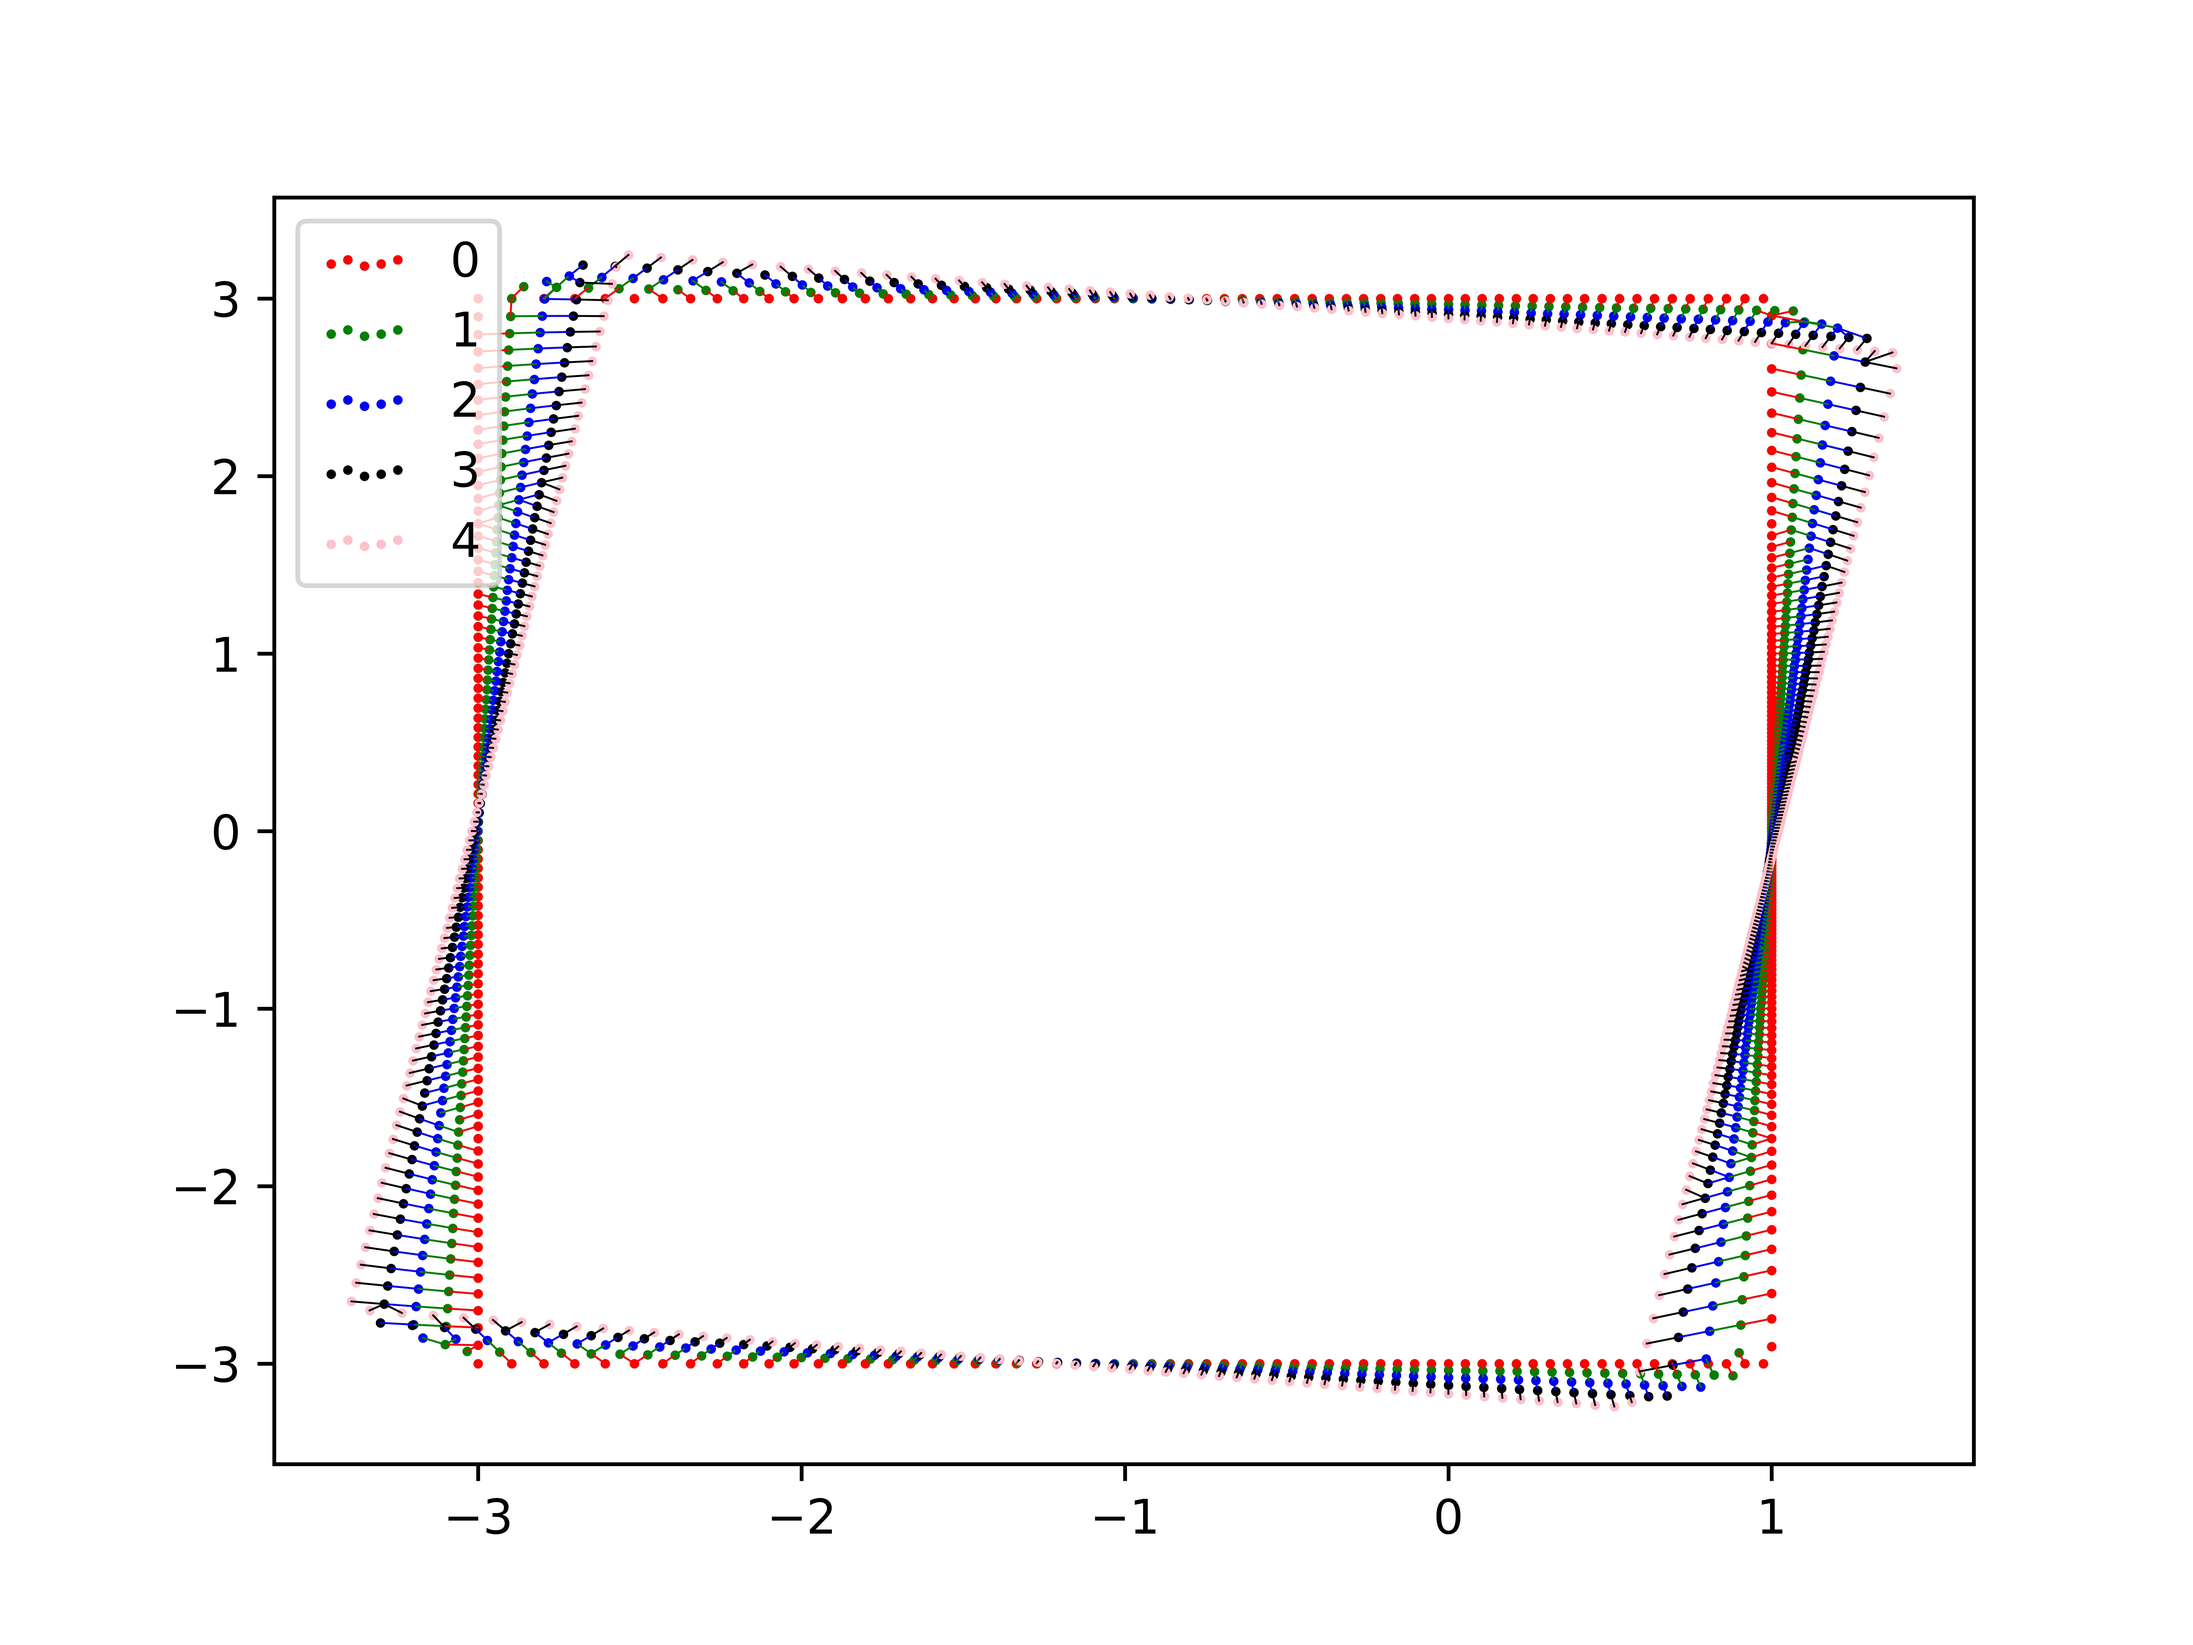
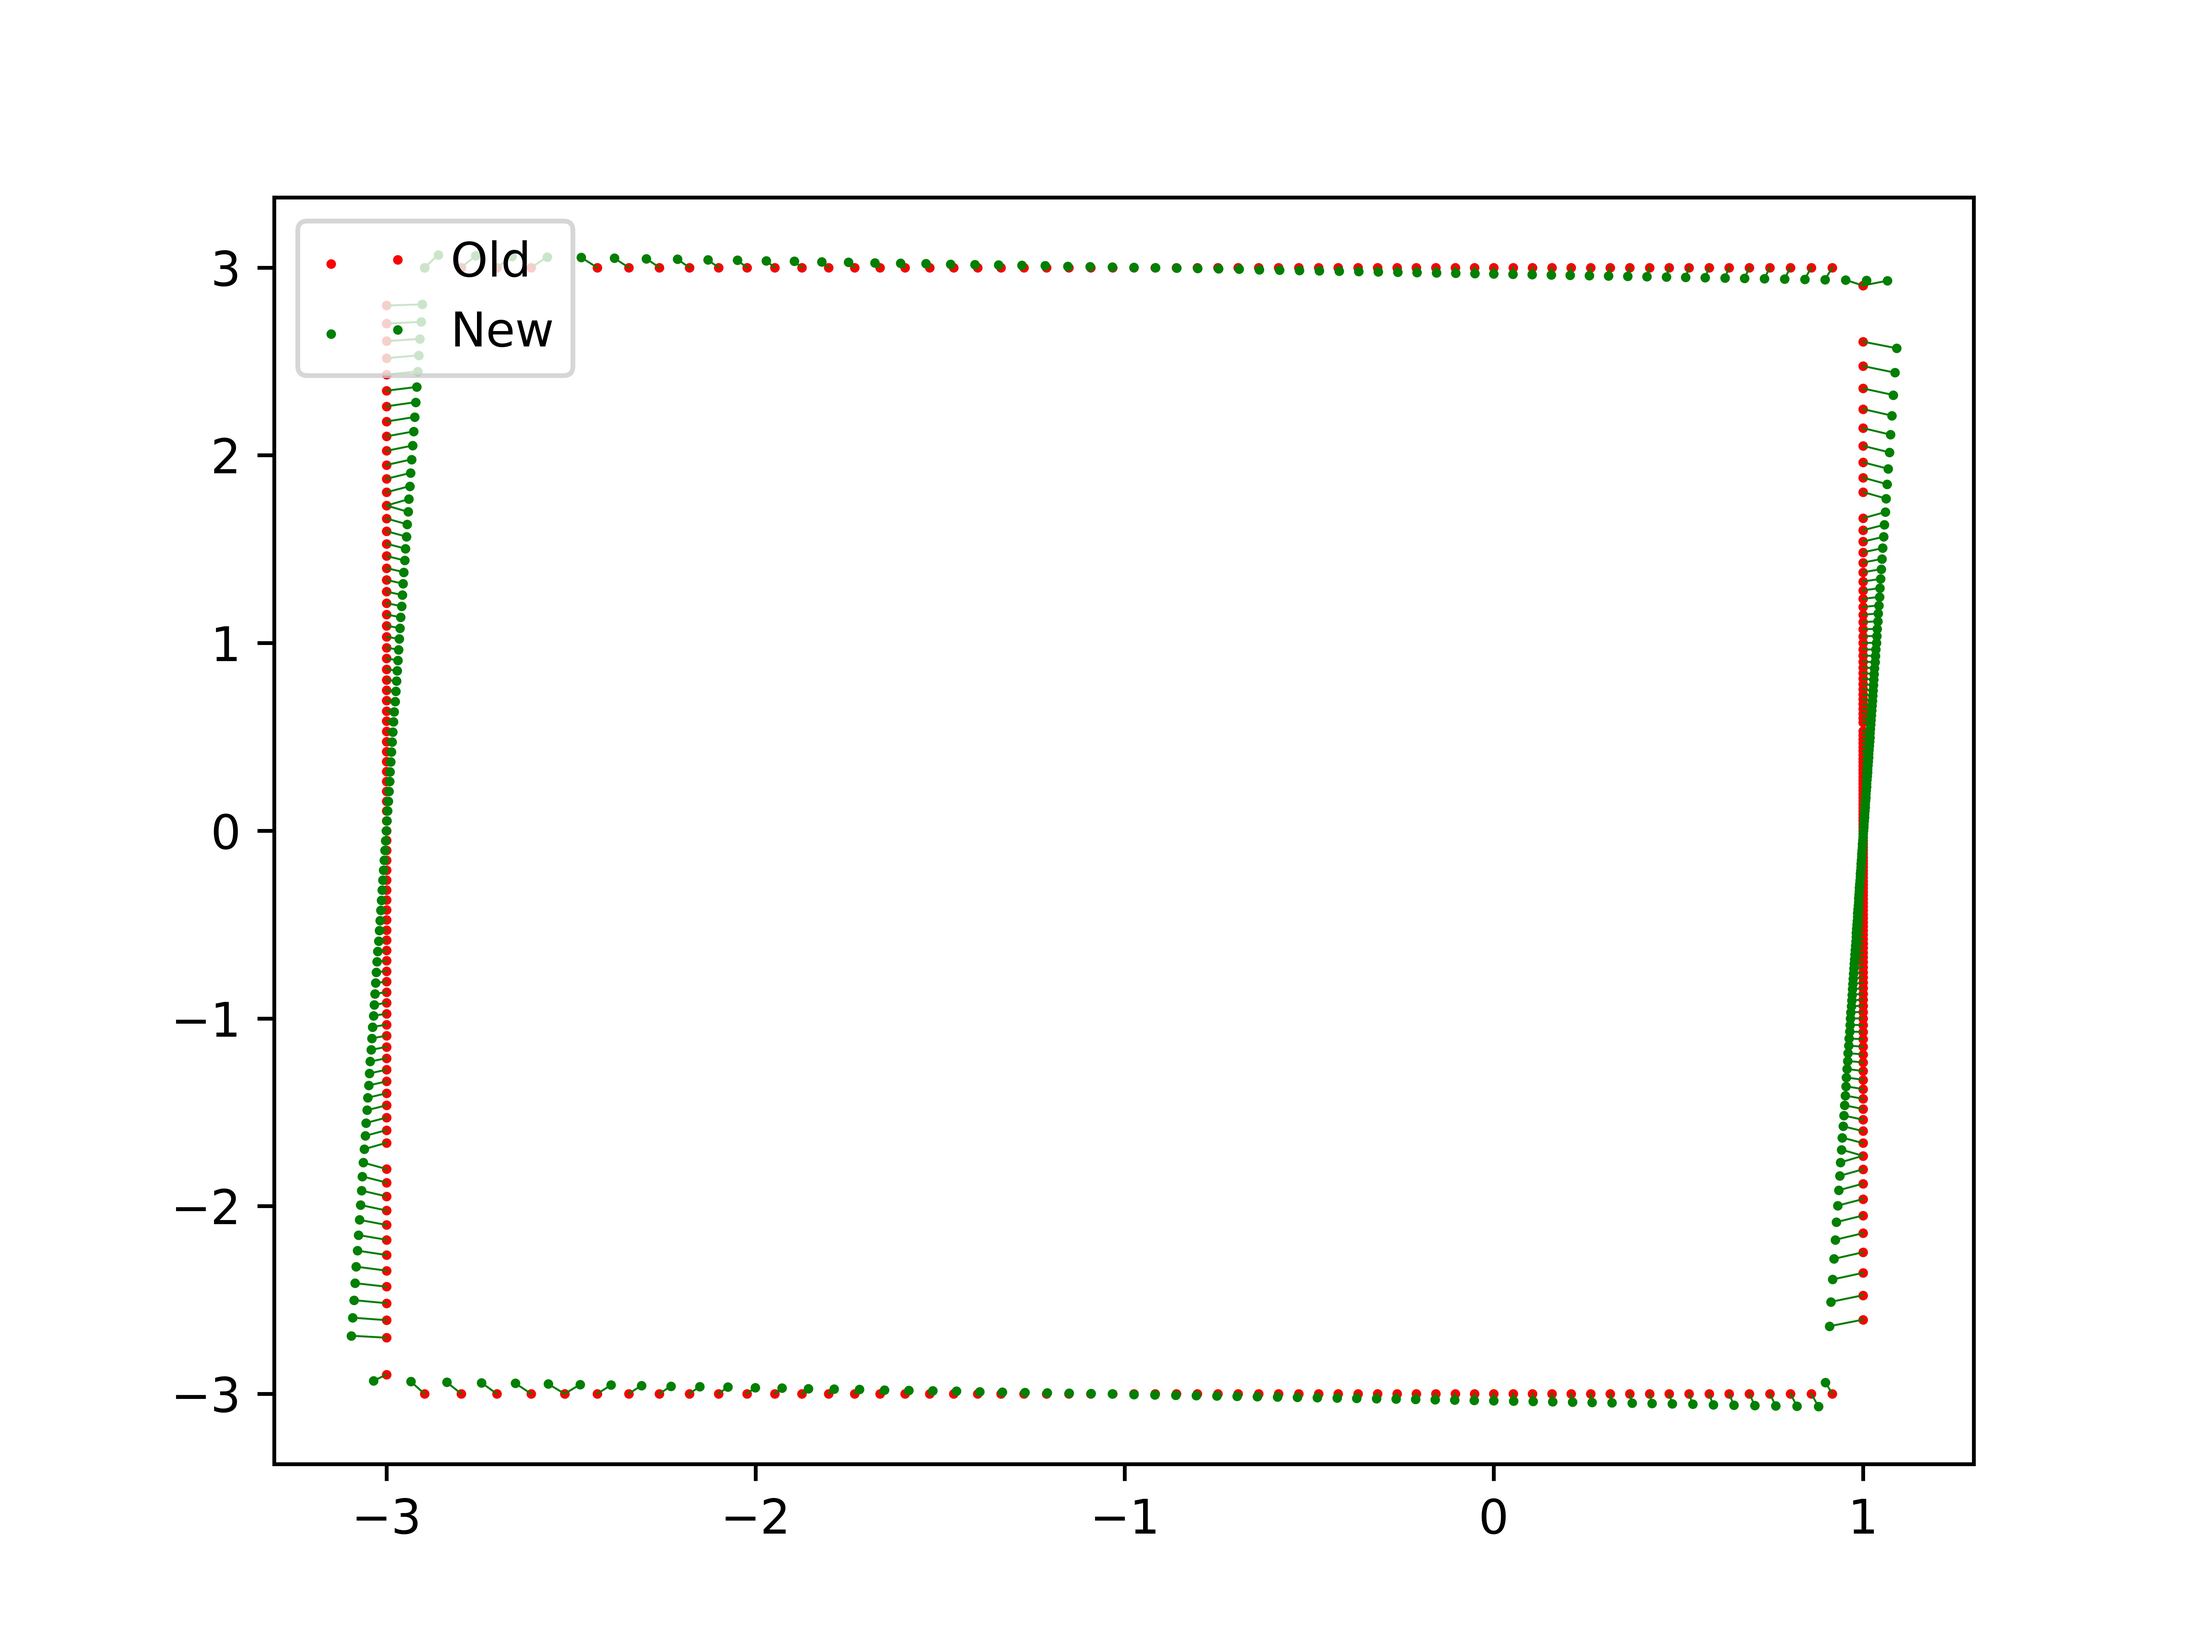
structure defined

diff --git a/HW1/main.py b/HW1/main.py
@@ -1,43 +1,84 @@
 import numpy as np
 from matplotlib import pyplot as plt
 
+
 # Read Data
-depth_data = open("hw1_data/data.txt")
-depth_data = depth_data.readlines()
-depth_data = [data.split('\t')[:-1] for data in depth_data]
-depth_data = np.array(depth_data, dtype=np.float64)
+def get_depth(path: str = "hw1_data/data.txt"):
+    depth_data = open("hw1_data/data.txt")
+    depth_data = depth_data.readlines()
+    depth_data = [data.split('\t')[:-1] for data in depth_data]
+    depth_data = np.array(depth_data, dtype=np.float64)
+    return depth_data
+
 
 # Turn depth data into coordinate
-coordinate_dataX = np.array([[np.cos(j * np.pi / 180) * depth_data[i][j] for j in range(360)] for i in range(360)])
-coordinate_dataY = np.array([[np.sin(j * np.pi / 180) * depth_data[i][j] for j in range(360)] for i in range(360)])
+def depth2coor(depth_data: np.array):
+    coordinate_data = np.array(
+        [[(np.cos(j * np.pi / 180) * depth_data[i][j], np.sin(j * np.pi / 180) * depth_data[i][j]) for j in range(360)]
+         for
+         i in range(360)], dtype=np.float64)
+    return coordinate_data
+
+
+def de_coor2xy(coor: np.array):
+    coordinate_data_x = np.array([[coor[i][j][0] for j in range(360)] for i in range(360)], dtype=np.float64)
+    coordinate_data_y = np.array([[coor[i][j][1] for j in range(360)] for i in range(360)], dtype=np.float64)
+    return coordinate_data_x, coordinate_data_y
+
 
 # Calculate nearest point between 2 frames
-nearst_point = [[] for i in range(360)]
-for i in range(359):
-    for j in range(360):
-        dis = np.sqrt(np.square(coordinate_dataX[i+1][j]-coordinate_dataX[i])+np.square(coordinate_dataY[i+1][j]-coordinate_dataY[i]))
-        nearst_point[i].append(np.argmin(dis))
+def cal_nearest(index: int, coor: np.array, coor_x: np.array = None, coor_y: np.array = None):
+    nearest_point = list()
+    if coor_x is None and coor_y is None:
+        coor_x, coor_y = de_coor2xy(coor)
 
-# Todo: Here just try 1st and 2rd frame
-# Calculate Rotation and Translation Matrix
-coordinate_data = np.array([[[coordinate_dataX[i][j], coordinate_dataY[i][j], 1] for j in range(360)] for i in range(360)])
-p_avg = np.array([np.average(coordinate_dataX[0]), np.average(coordinate_dataY[0]), 1])
-q_avg = np.array([np.average(coordinate_dataX[1]), np.average(coordinate_dataY[1]), 1])
+    for j in range(360):
+        dis = np.sqrt(np.square(coor_x[index + 1][j] - coor_x[0]) + np.square(coor_y[index + 1][j] - coor_y[0]))
+        nearest_point.append((j, np.argmin(dis), np.min(dis)))
+
+    return nearest_point
+
+
+# # Todo: Here just try 1st and 2rd frame
+# # Calculate Rotation and Translation Matrix
+# coordinate_data = np.array([[[coordinate_dataX[i][j], coordinate_dataY[i][j], 1] for j in range(360)] for i in range(360)])
+# p_avg = np.array([np.average(coordinate_dataX[0]), np.average(coordinate_dataY[0]), 1])
+# q_avg = np.array([np.average(coordinate_dataX[1]), np.average(coordinate_dataY[1]), 1])
 
 
 # Draw
-frame1 = plt.scatter(coordinate_dataX[0], coordinate_dataY[0], s=1, c='red')
-frame2 = plt.scatter(coordinate_dataX[1], coordinate_dataY[1], s=1, c='green')
-frame3 = plt.scatter(coordinate_dataX[2], coordinate_dataY[2], s=1, c='blue')
-frame4 = plt.scatter(coordinate_dataX[3], coordinate_dataY[3], s=1, c='black')
-frame5 = plt.scatter(coordinate_dataX[4], coordinate_dataY[4], s=1, c='pink')
+def draw(coor1_x: np.array, coor1_y: np.array, coor2_x: np.array, coor2_y: np.array):
+    assert len(coor1_x) == len(coor2_x) == len(coor1_y) == len(coor2_y)
+    frame1 = plt.scatter(coor1_x, coor1_y, s=1, c='red')
+    frame2 = plt.scatter(coor2_x, coor2_y, s=1, c='green')
 
-for i in range(360):
-    plt.plot([coordinate_dataX[1][i], coordinate_dataX[0][nearst_point[0][i]]], [coordinate_dataY[1][i], coordinate_dataY[0][nearst_point[0][i]]], c='r', linewidth=0.4)
-    plt.plot([coordinate_dataX[2][i], coordinate_dataX[1][nearst_point[1][i]]], [coordinate_dataY[2][i], coordinate_dataY[1][nearst_point[1][i]]], c='green', linewidth=0.4)
-    plt.plot([coordinate_dataX[3][i], coordinate_dataX[2][nearst_point[2][i]]], [coordinate_dataY[3][i], coordinate_dataY[2][nearst_point[2][i]]], c='blue', linewidth=0.4)
-    plt.plot([coordinate_dataX[4][i], coordinate_dataX[3][nearst_point[3][i]]], [coordinate_dataY[4][i], coordinate_dataY[3][nearst_point[3][i]]], c='black', linewidth=0.4)
+    for i in range(len(coor1_x)):
+        plt.plot([coor2_x[i], coor1_x[i]], [coor2_y[i], coor1_y[i]], c='g', linewidth=0.4)
 
-plt.legend([frame1, frame2, frame3, frame4, frame5], [str(i) for i in range(5)], scatterpoints=5, loc='upper left')
-plt.savefig("test.jpg", dpi=1000)
-plt.show()
+    plt.legend([frame1, frame2], ['Old', 'New'], scatterpoints=2, loc='upper left')
+    plt.savefig("test.jpg", dpi=1000)
+    plt.show()
+
+
+def rejection(nearest: np.array, method='median'):
+    median = np.median(np.array([p[2] for p in nearest]))
+    new_nearest = [p for p in nearest if p[2] < 3 * median]
+    return new_nearest
+
+
+if __name__ == '__main__':
+    depth_data = get_depth()
+    coordinate_data = depth2coor(depth_data)
+    for i in range(1):
+        # match
+        nearest = cal_nearest(i, coordinate_data)
+        # reject
+        nearest = rejection(nearest)
+        print(nearest)
+        left1_x = [coordinate_data[i][p[1]][0] for p in nearest]
+        left1_y = [coordinate_data[i][p[1]][1] for p in nearest]
+        left2_x = [coordinate_data[i+1][p[0]][0] for p in nearest]
+        left2_y = [coordinate_data[i+1][p[0]][1] for p in nearest]
+        draw(left1_x, left1_y, left2_x, left2_y)
+
+
